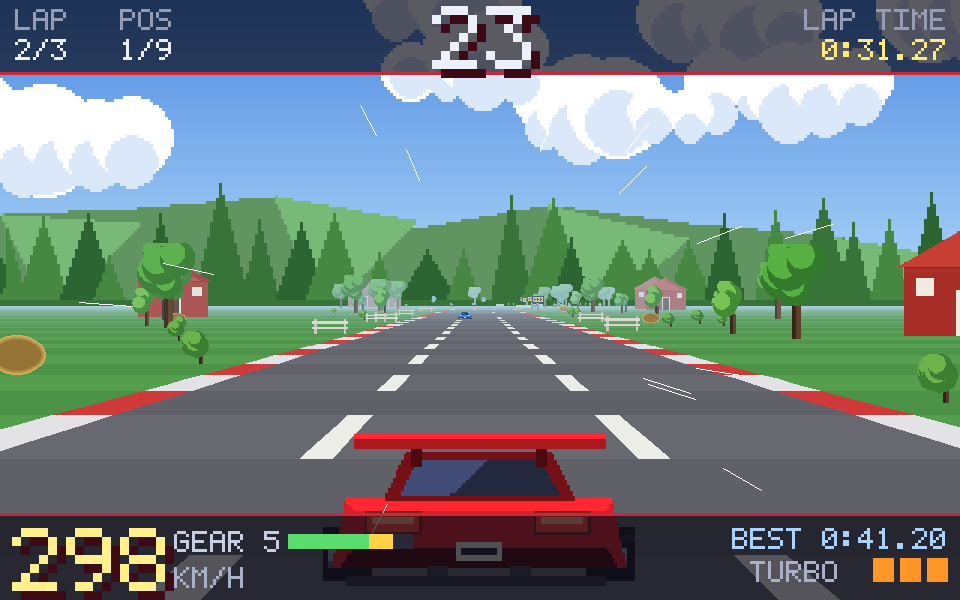
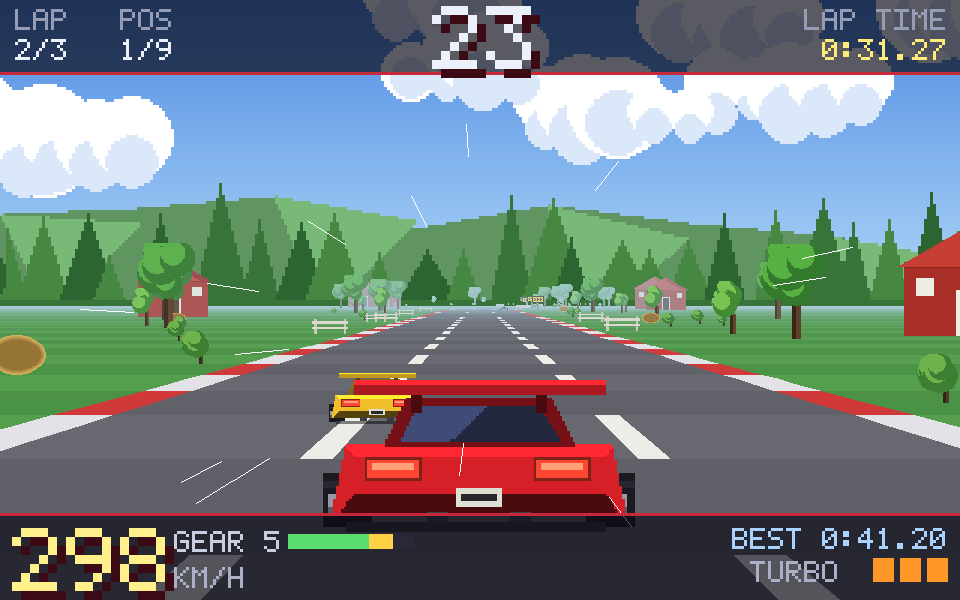
Stop the instrument panel from swallowing the player's car
The car was placed against the bottom of the screen while the HUD panel
occupies the bottom 28 pixels, so 30-39% of every car - wheels, rear bumper
and plate - was drawn behind it.

The HUD geometry is now named rather than scattered as literals (HUD_TOP,
HUD_BOTTOM, CAR_SINK), and the car is positioned against HUD_BOTTOM with a
4px tuck so it still reads as grounded rather than floating.

The geometry suite now measures the overlap for all five cars, using absolute
limits rather than a tolerance derived from CAR_SINK - a tolerance computed
from the value under test would simply drift along with a regression.

Documentation screenshots and the GIF regenerated.

Changed region(s): [[0.3125, 0.6, 0.6875, 0.99], [0.6875, 0.63, 0.7188, 0.66], [0.4688, 0.51, 0.5, 0.54]]

diff --git a/tests/test_geometry.py b/tests/test_geometry.py
@@ -77,10 +77,55 @@ def run():
         c.check(track.length == len(track.segments) * SEGMENT_LENGTH,
                 '%s length does not match its segment count' % spec['name'])
 
+    # -- the HUD must not swallow the player's car ---------------------
+    _check_car_clears_hud(c)
+
     # -- and the same thing end to end, through the real renderer ------
     _check_gantry_pixels(c)
 
     return c.report()
+
+
+def _check_car_clears_hud(c):
+    """The instrument panel is drawn over the world, so the car has to sit
+    above it. It used to be placed against the bottom of the screen, which put
+    a third of every car - wheels, bumper and plate - behind the panel."""
+    import random
+    from game.render import Assets, Renderer, HEIGHT
+    from game.race import Race, MAX_SPEED, HUD_BOTTOM, HUD_TOP
+    from game import track as T, cars as garage
+    from game.scores import Scores
+
+    renderer = Renderer(Assets(harness.ROOT))
+    panel_top = HEIGHT - HUD_BOTTOM
+    for car in garage.CARS:
+        race = Race(T.load('country'), renderer, harness.silent_audio(),
+                    Scores(T.TRACK_SPECS), random.Random(3), car=car)
+        race.state = Race.STATE_RACING
+        race.player.speed = MAX_SPEED * 0.8
+        for _ in range(120):          # let the bounce reach its extremes
+            race.update(1 / 60.0, {'left': False, 'right': False,
+                                   'accel': True, 'brake': False})
+        img, (_, top) = race._player_sprite(0)
+        bottom = top + img.get_height()
+        hidden = max(0, bottom - panel_top)
+        height = img.get_height()
+        # Absolute limits on purpose: deriving the tolerance from CAR_SINK
+        # would let the assertion drift along with the very value it guards.
+        c.check(hidden <= 10,
+                '%s is %dpx behind the instrument panel (10px is the limit)'
+                % (car['name'], hidden))
+        c.check(hidden <= height * 0.15,
+                '%s has %.0f%% of its body behind the panel'
+                % (car['name'], 100.0 * hidden / height))
+        c.check(top > HUD_TOP,
+                '%s reaches up into the top HUD bar (y=%d)'
+                % (car['name'], top))
+        c.check(hidden >= 0,
+                '%s floats above the panel with a visible gap' % car['name'])
+        race.clear()
+    c.note('all %d cars sit clear of the instrument panel'
+           % len(garage.CARS))
 
 
 def _check_gantry_pixels(c):

diff --git a/game/race.py b/game/race.py
@@ -22,8 +22,13 @@ OFF_ROAD_LIMIT = MAX_SPEED / 3.6
 CENTRIFUGAL = 0.46
 KMH_PER_UNIT = 310.0 / MAX_SPEED
 GEARS = 5
-PLAYER_W = 0.32
-INK = (236, 240, 250)                            # car width in road half-widths
+PLAYER_W = 0.32       # car width in road half-widths
+INK = (236, 240, 250)
+# HUD geometry on the 320x200 design grid. The player car is placed against
+# HUD_BOTTOM so the instrument panel cannot swallow its wheels.
+HUD_TOP = 24
+HUD_BOTTOM = 28
+CAR_SINK = 4          # how far the car's bottom tucks behind the panel
 TURBO_TIME = 2.6
 TURBO_BOOST = 1.22
 
@@ -532,7 +537,8 @@ class Race:
         if p.offroad:
             bob += math.sin(p.bounce * 3.1) * 2.2 * SCALE
         x = WIDTH / 2 - w / 2 + p.steer * 3 * SCALE
-        y = HEIGHT - h - 6 * SCALE + bob + shake_y
+        y = HEIGHT - (HUD_BOTTOM - CAR_SINK) * SCALE - h + bob \
+            + shake_y
         return surf, (int(x), int(y))
 
     def _draw_particles(self, s):
@@ -608,7 +614,7 @@ class Race:
                      right=True)
 
         # bottom instrument strip
-        bh = 28
+        bh = HUD_BOTTOM
         base = pygame.Surface((BASE_WIDTH, bh), pygame.SRCALPHA)
         base.fill((10, 10, 22, 172))
         s.blit(base, (0, BASE_HEIGHT - bh))
